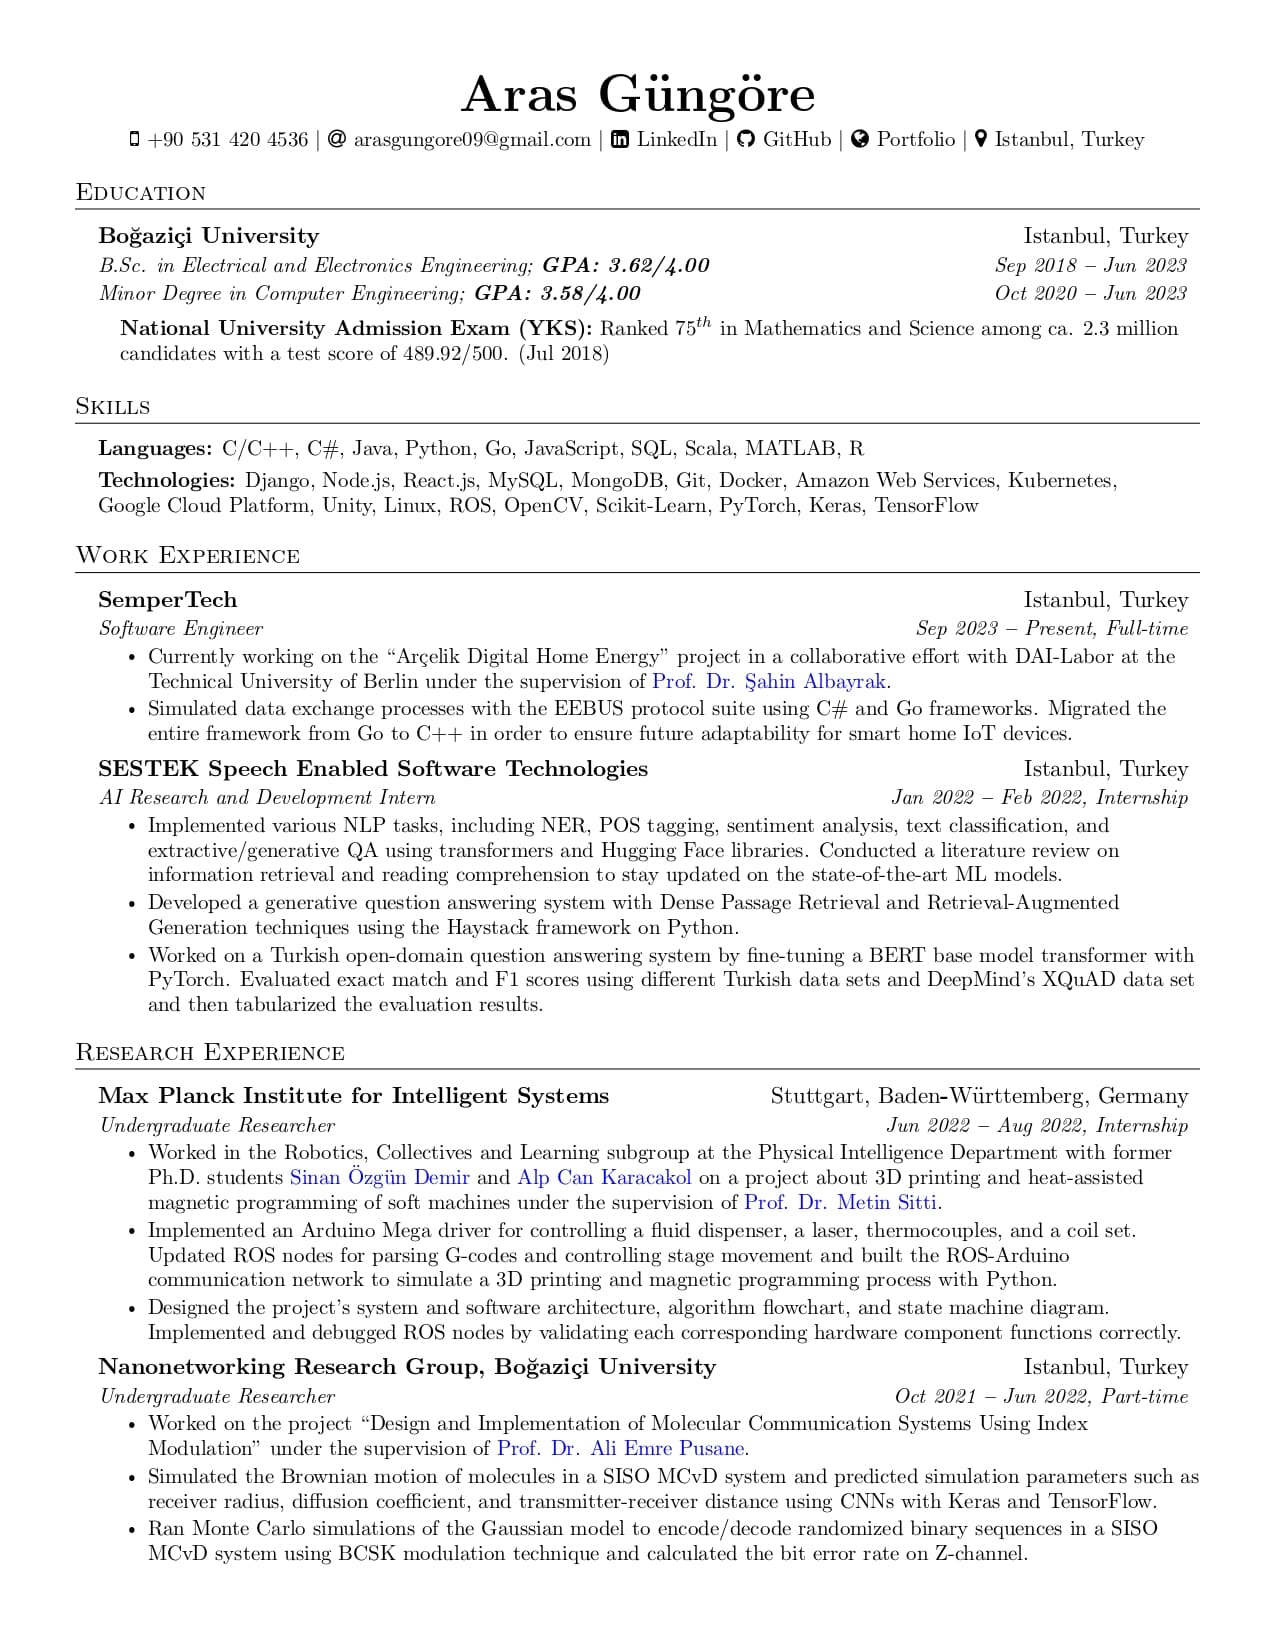
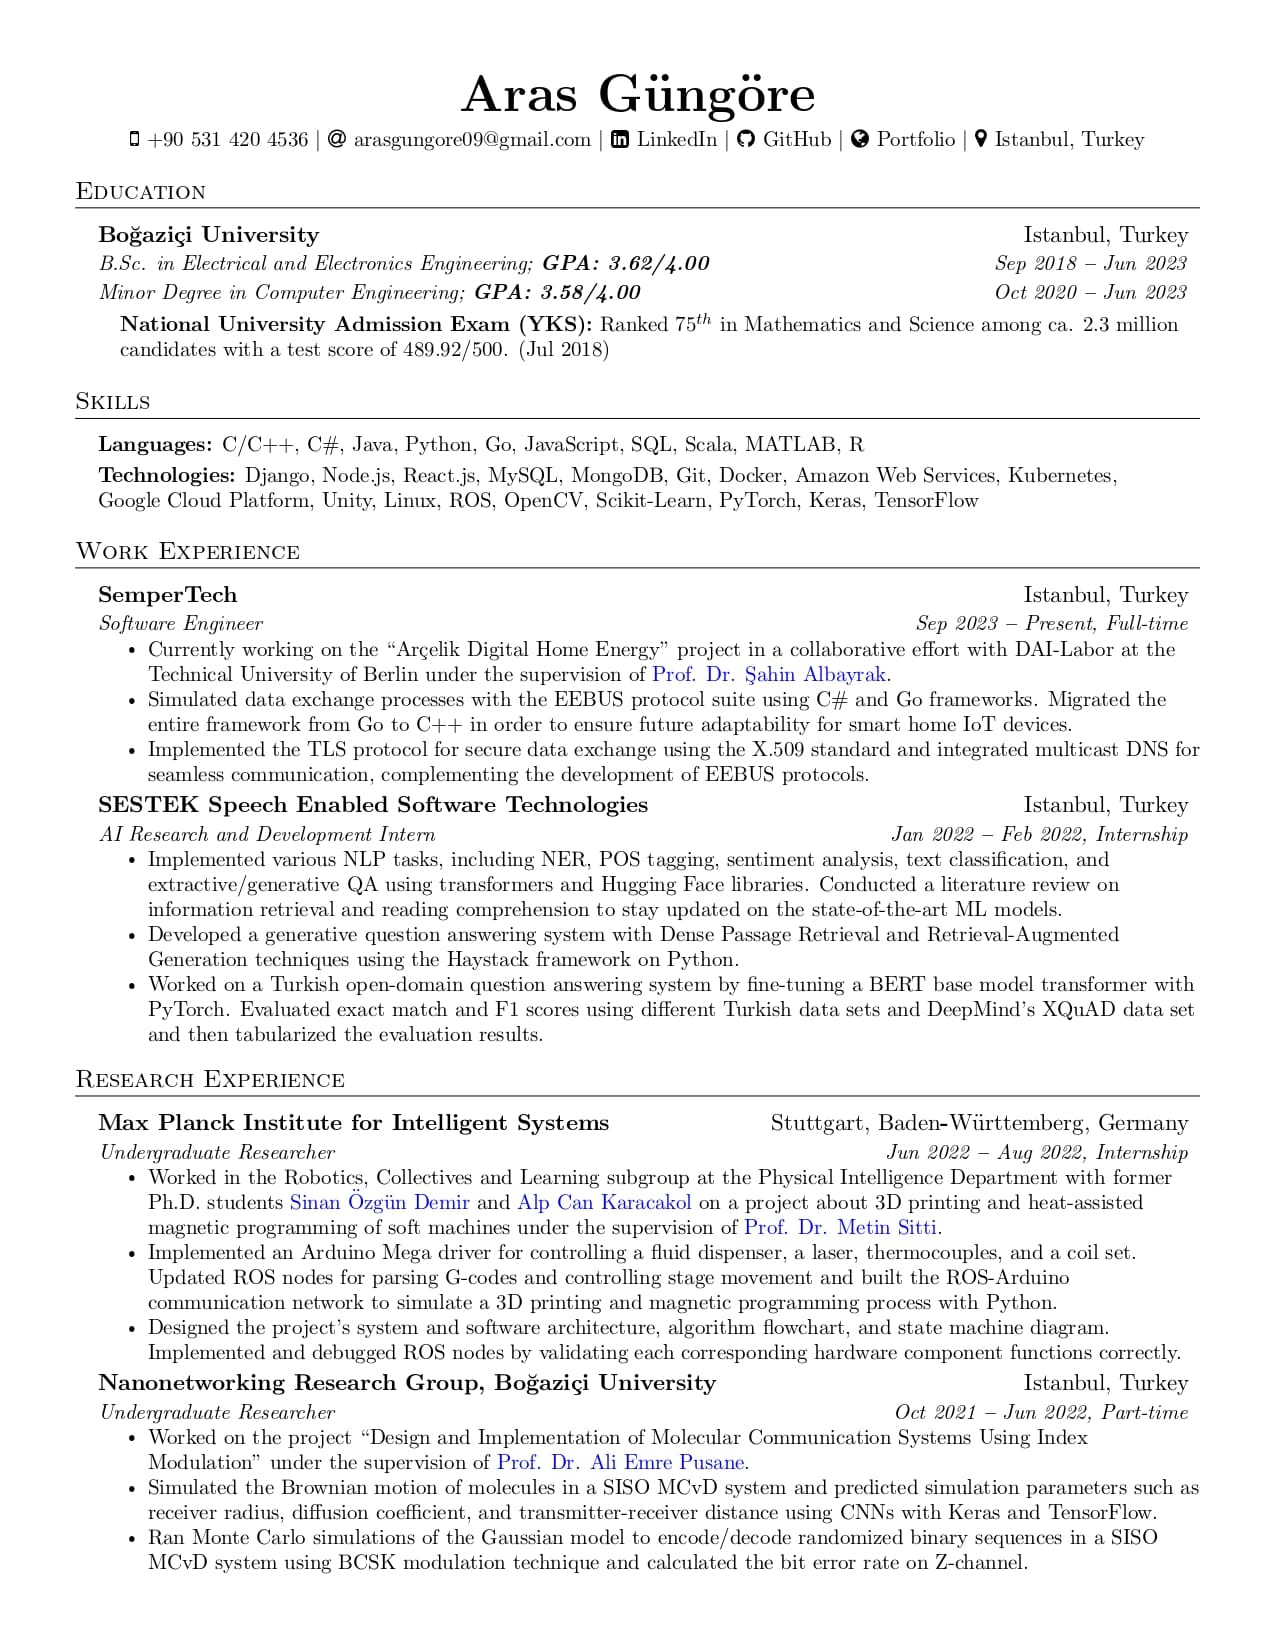
Updated CV

Changed region(s): [[0.0612, 0.0927, 0.9482, 0.9582], [0.5812, 0.1236, 0.9482, 0.2164]]

diff --git a/main.tex b/main.tex
@@ -200,12 +200,20 @@
   \vspace{3pt}
   \resumeSubHeadingListStart
 
+    % \resumeSubheading
+      % {Avikon}{Istanbul, Turkey}
+      % {Software Engineer}{Dec 2023 \textbf{--} Present, Full-time}
+        % \resumeItemListStart
+            % \resumeItem{}
+        % \resumeItemListEnd
+
     \resumeSubheading
       {SemperTech}{Istanbul, Turkey}
       {Software Engineer}{Sep 2023 \textbf{--} Present, Full-time}
         \resumeItemListStart
             \resumeItem{Currently working on the “Arçelik Digital Home Energy” project in a collaborative effort with DAI-Labor at the Technical University of Berlin under the supervision of \href{https://www.linkedin.com/in/prof-dr-dr-h-c-sahin-albayrak-65452a1/}{\color{blue}Prof. Dr. Şahin Albayrak}.}
             \resumeItem{Simulated data exchange processes with the EEBUS protocol suite using C\# and Go frameworks. Migrated the entire framework from Go to C++ in order to ensure future adaptability for smart home IoT devices.}
+            \resumeItem{Implemented the TLS protocol for secure data exchange using the X.509 standard and integrated multicast DNS for seamless communication, complementing the development of EEBUS protocols.}
         \resumeItemListEnd
 
     % \resumeSubheading
